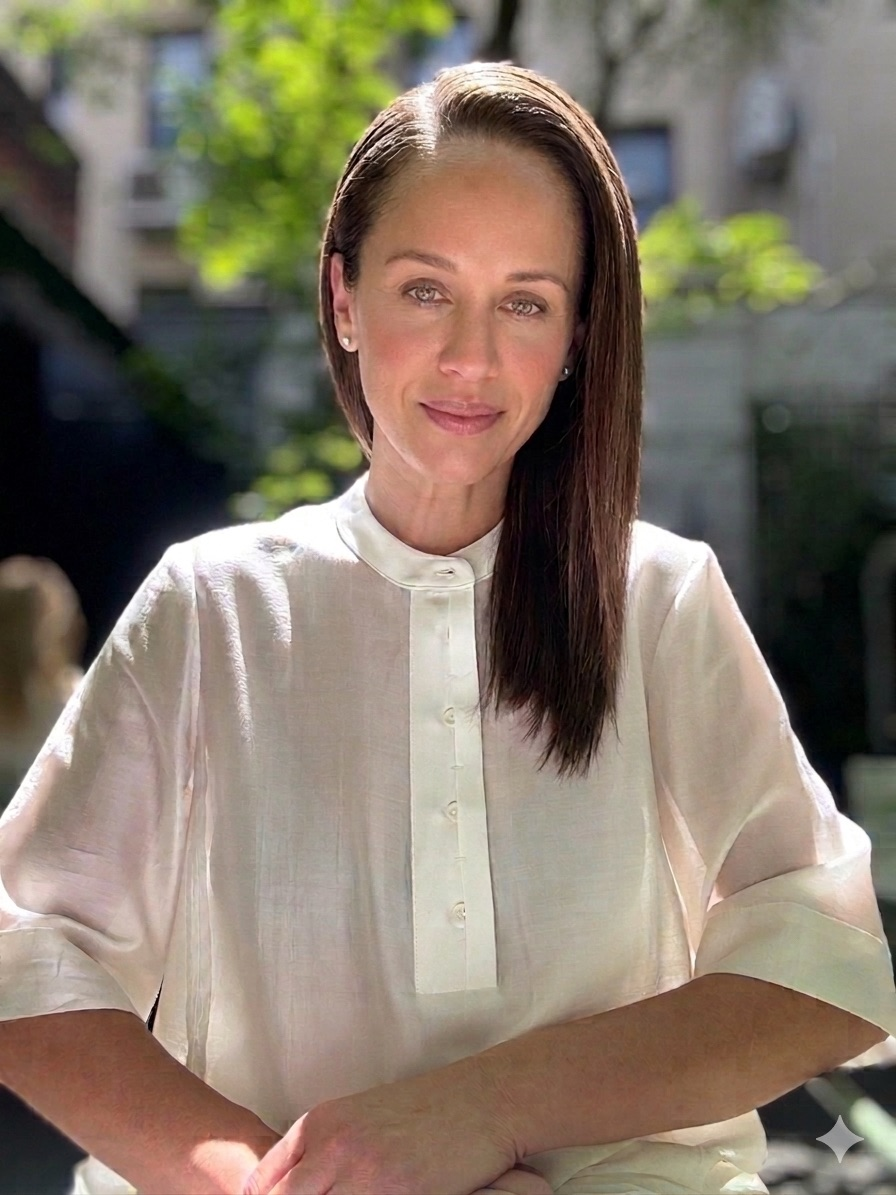
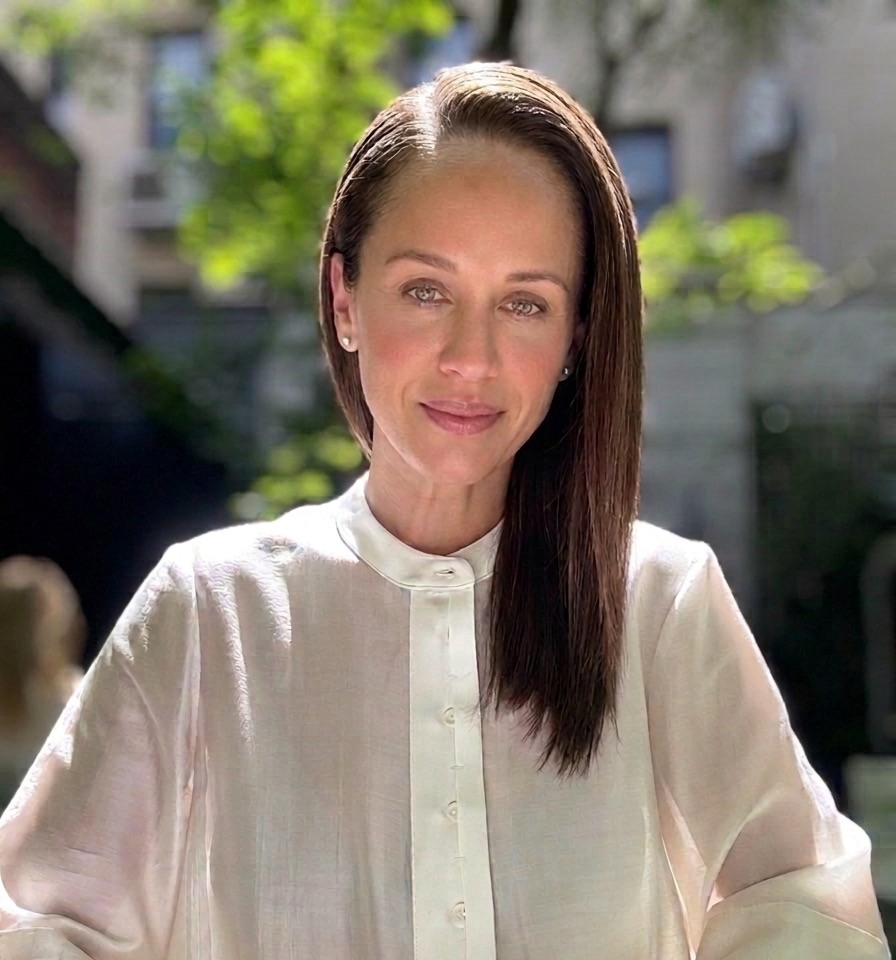
Crop founder headshot above the arms

diff --git a/next/public/foundations-v2.html b/next/public/foundations-v2.html
@@ -643,7 +643,7 @@ button.reel:focus-visible,.reel .snd:focus-visible{outline:2px solid #fff;outlin
     <p>Raquel Cadourcy is a mom of two with 20+ years of marketing leadership, from LVMH to CMO of luxury and lifestyle brands, turned AI systems architect. She built ai.moms™ because she needed it first.</p>
     <p>ai.moms™ is an Approved Claude SMB Trainer and part of the Anthropic Partner Network, so what you learn is current and taught the right way.</p>
   </div>
-  <img src="/home/raquel.jpg" alt="Raquel Cadourcy, founder of ai.moms™" style="max-width:340px;width:100%;aspect-ratio:3/4;object-fit:cover">
+  <img src="/home/raquel.jpg" alt="Raquel Cadourcy, founder of ai.moms™" style="max-width:340px;width:100%;aspect-ratio:896/960;object-fit:cover">
 </div></section>
 
 <section class="sec off pad tight"><div class="wrap">

diff --git a/next/public/home-v2.html b/next/public/home-v2.html
@@ -325,7 +325,7 @@ a.reel{display:block;color:#fff}
 .guide-cta span{color:var(--g600);font-size:14.5px}
 .guide-cta .btn{padding:15px 26px;font-size:15px}
 .founder2{grid-template-columns:minmax(0,1fr) 460px;gap:64px;align-items:center}
-.founder2 img{border-radius:18px;max-width:460px;width:100%;aspect-ratio:3/4;object-fit:cover}
+.founder2 img{border-radius:18px;max-width:460px;width:100%;aspect-ratio:896/960;object-fit:cover}
 .founder2 p:last-of-type{margin-bottom:22px}
 .sigrow{display:flex;justify-content:space-between;align-items:end;gap:20px;flex-wrap:wrap;padding-top:20px;border-top:1px solid var(--g200);max-width:36em}
 .siglinks{display:flex;flex-direction:column;gap:6px;font-weight:700;font-size:13.5px;color:var(--link)}
